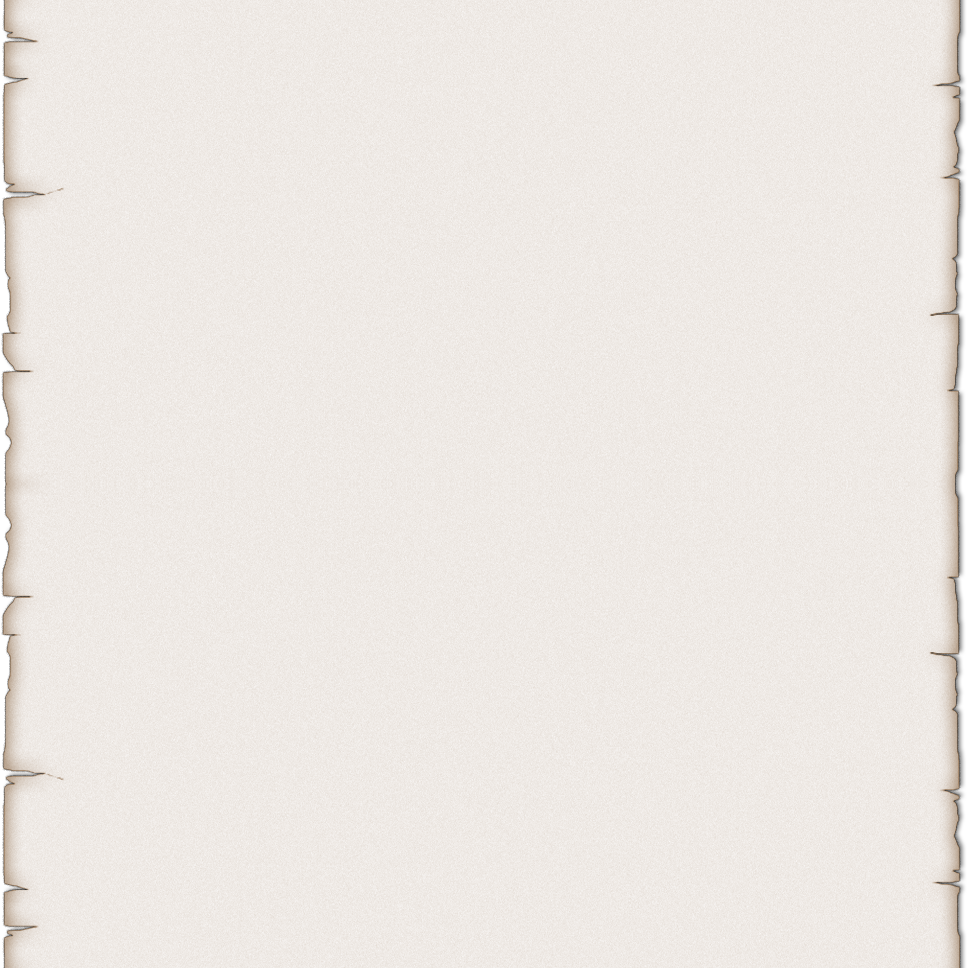
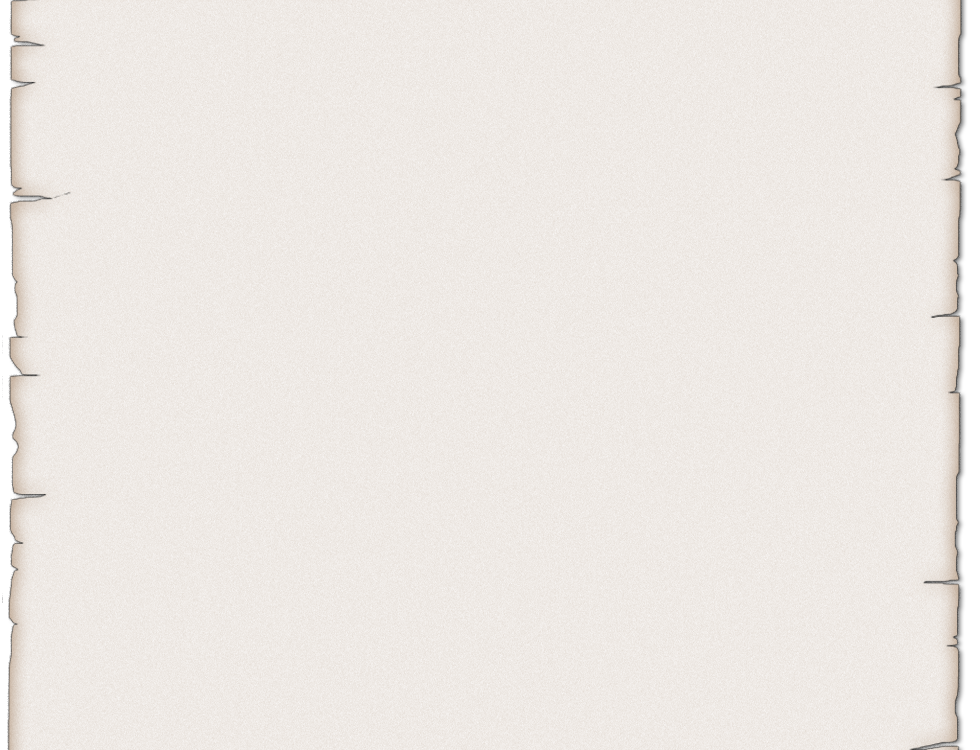
Updated the background images

Changed region(s): [[0.9307, 0.0, 1.0, 1.0], [0.0, 0.0, 0.062, 0.6747], [0.0, 0.7053, 0.062, 1.0]]

diff --git a/public_html/templates/warwickhistory/css/layout.css b/public_html/templates/warwickhistory/css/layout.css
@@ -45,13 +45,13 @@ body {
 }
 
 #content {
-	padding: 0 21px 0 4px;
-	background: url(../images/body_bg.png) 0 0 repeat-y;
+	padding: 0 24px 0 6px;
+	background: url(../images/body_bg.png) -5px 0 repeat-y;
 }
 #content > div { 
 	position: relative;
 	border-top: 1px solid black;
-	padding: 15px 39px 1px 41px;
+	padding: 15px 36px 1px 39px;
 }
 
 #footer {
@@ -61,7 +61,7 @@ body {
 	position: relative;
 	z-index: 2;
 
-	background: url(../images/body_bg_bottom.png) no-repeat -6px;
+	background: url(../images/body_bg_bottom.png) no-repeat -8px;
 	line-height: 50px;
 }
 #footer > div {
